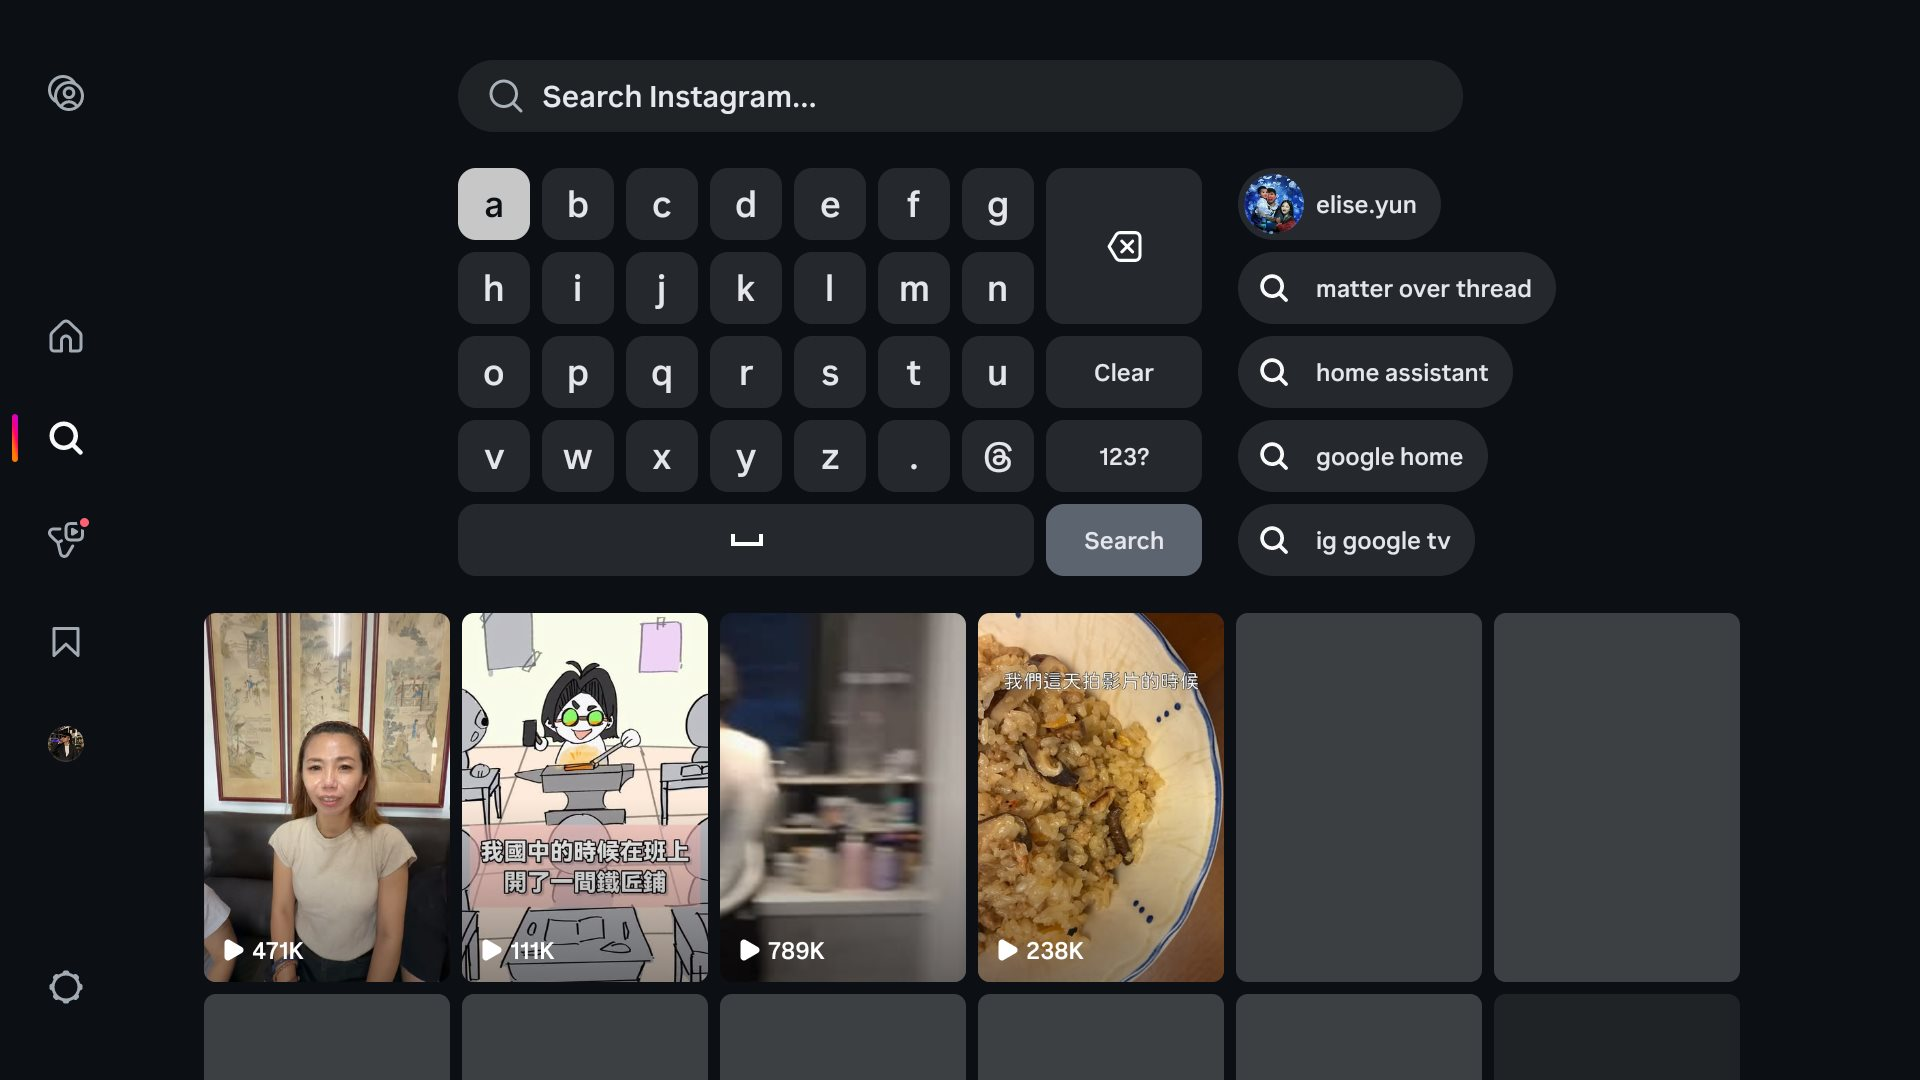
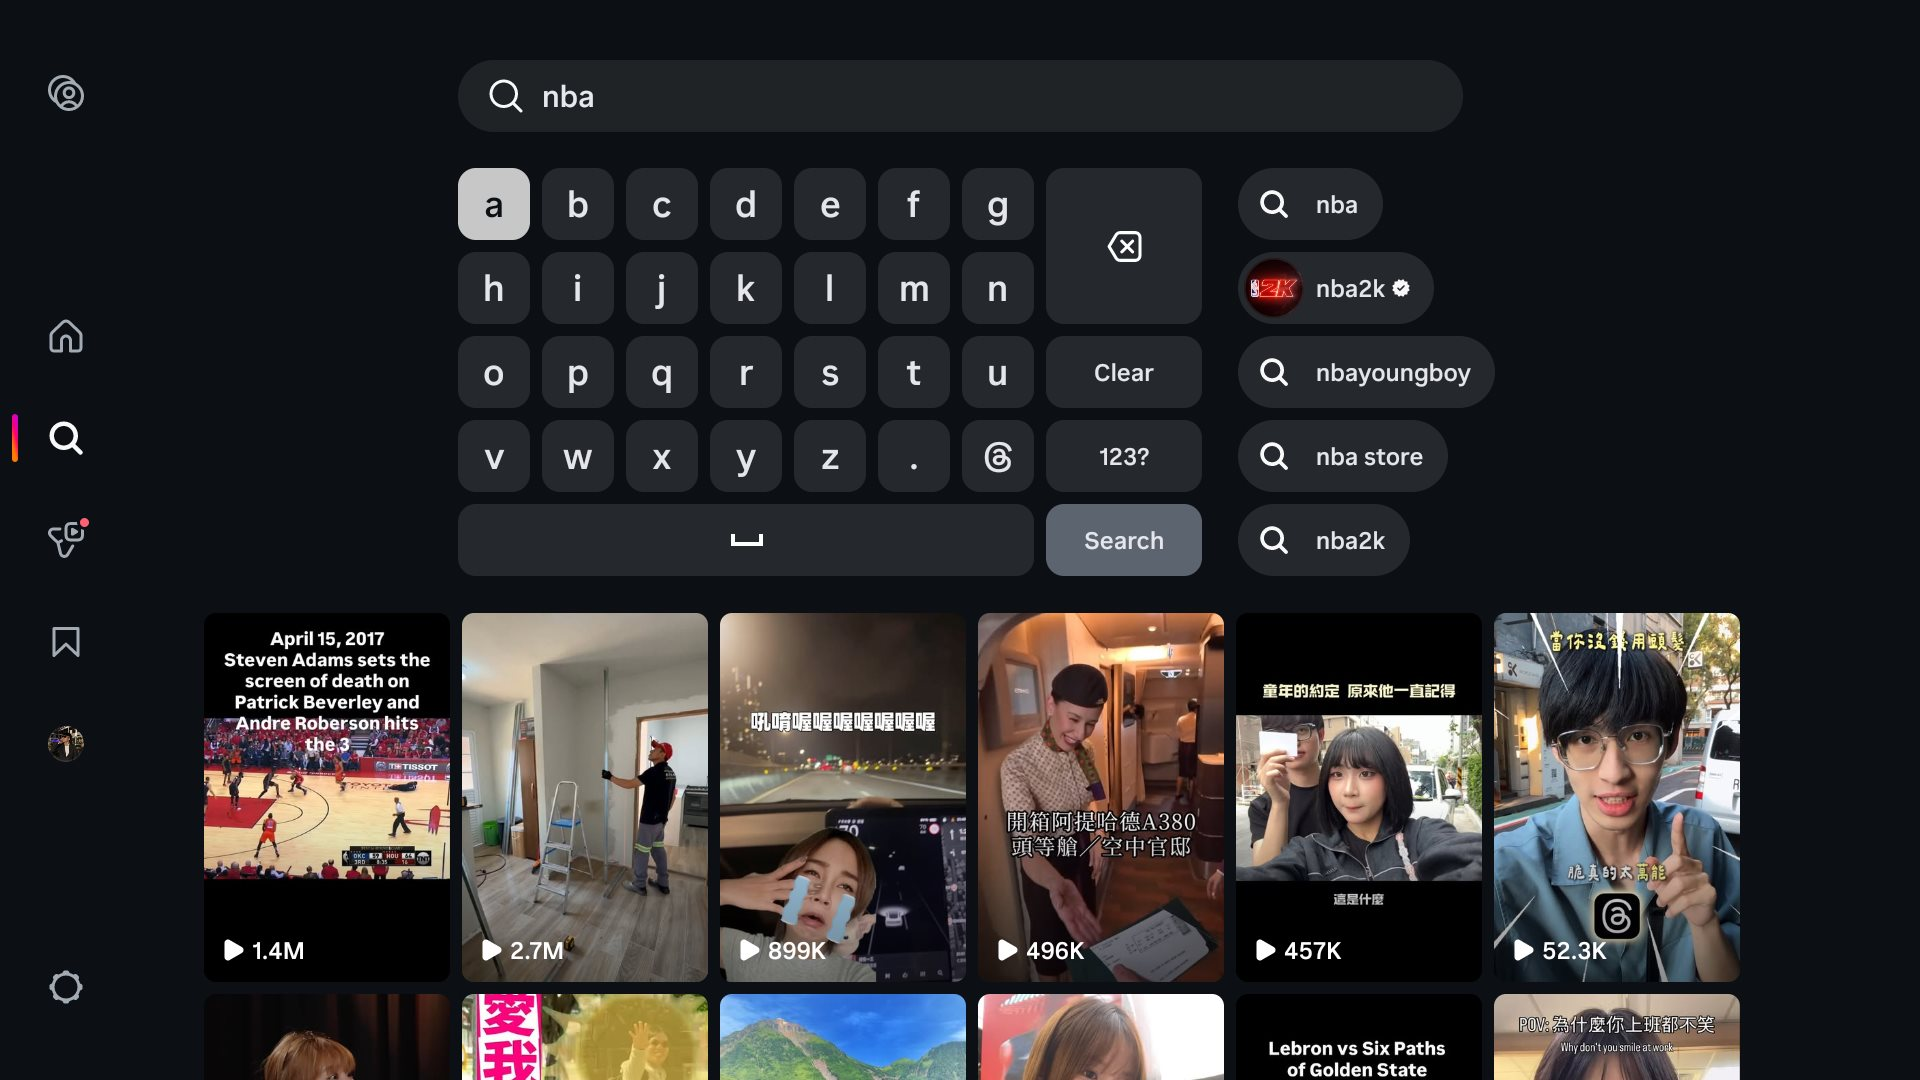
Replace Search screenshot with a privacy-safe version
New c3.jpg shows a typed nba query with live suggestions instead of
personal recent-search history; captions updated to match.

diff --git a/ig-tv-app.html b/ig-tv-app.html
@@ -64,8 +64,8 @@
   <figure><img src="img/c2.jpg" alt="Home 首頁"><figcaption>Home:上方限時動態、下方 For you 影片牆,縮圖直接顯示觀看數。</figcaption></figure>
 
   <h2>Search:電視上打字沒有想像中痛苦</h2>
-  <p>搜尋頁是一個螢幕鍵盤,右邊掛著最近搜尋紀錄,下面鋪推薦影片。鍵盤上除了字母數字,還有一顆 Threads 符號鍵——Meta 的全家桶暗示得很明顯。用方向鍵一顆一顆點字母當然不如手機快,但配合搜尋紀錄和推薦牆,找特定創作者還算堪用。</p>
-  <figure><img src="img/c3.jpg" alt="Search 搜尋頁"><figcaption>Search:螢幕鍵盤 + 最近搜尋 + 推薦影片牆。</figcaption></figure>
+  <p>搜尋頁是一個螢幕鍵盤,下面鋪推薦影片;一開始打字,右側就即時跳出建議——帳號結果會直接帶頭像和藍勾勾。鍵盤上除了字母數字,還有一顆 Threads 符號鍵——Meta 的全家桶暗示得很明顯。用方向鍵一顆一顆點字母當然不如手機快,但配合即時建議和推薦牆,找特定創作者還算堪用。</p>
+  <figure><img src="img/c3.jpg" alt="Search 搜尋頁"><figcaption>Search:螢幕鍵盤,打字時右側即時顯示建議與帳號結果。</figcaption></figure>
 
   <h2>主角登場:Shared reels——私訊影片的專屬收件匣</h2>
   <p>這是整個 App 我最喜歡的分頁,也是手機版沒有的體驗。<strong>朋友透過私訊傳給你的所有 Reels,全部集中在這一頁</strong>:上面一排「New」是還沒看的(縮圖右上角掛著傳送者的頭像、標著幾小時前),下面「All reels」是完整歷史。</p>
@@ -104,8 +104,8 @@
   <figure><img src="img/c2.jpg" alt="Home feed"><figcaption>Home: stories on top, the For-you reels wall below, view counts on the thumbnails.</figcaption></figure>
 
   <h2>Search: typing on a TV, less painful than expected</h2>
-  <p>Search is an on-screen keyboard with your recent searches beside it and a wall of suggested reels underneath. There's even a dedicated Threads-symbol key on the keyboard — Meta bundling at its most subtle. Pecking letters with a D-pad will never beat a phone, but recents plus suggestions make finding a specific creator workable.</p>
-  <figure><img src="img/c3.jpg" alt="Search page"><figcaption>Search: on-screen keyboard, recent searches, suggested reels.</figcaption></figure>
+  <p>Search is an on-screen keyboard with a wall of suggested reels underneath, and as soon as you start typing, live suggestions appear on the right — account results come with avatars and verification badges. There's even a dedicated Threads-symbol key on the keyboard — Meta bundling at its most subtle. Pecking letters with a D-pad will never beat a phone, but live suggestions make finding a specific creator workable.</p>
+  <figure><img src="img/c3.jpg" alt="Search page"><figcaption>Search: on-screen keyboard with live suggestions and account results as you type.</figcaption></figure>
 
   <h2>The star: Shared reels — an inbox for DM'd videos</h2>
   <p>This is my favorite tab in the app, and an experience the phone doesn't offer. <strong>Every reel your friends send you in DMs lands on this one page</strong>: a "New" row of unwatched ones (each thumbnail badged with the sender's avatar and how long ago it arrived), and an "All reels" section with the full history.</p>

diff --git a/medium/ig-tv-app-zh.html b/medium/ig-tv-app-zh.html
@@ -23,8 +23,8 @@
 <figure><img src="https://quenhenglee.github.io/img/c2.jpg" alt="Home 首頁"><figcaption>Home:上方限時動態、下方 For you 影片牆,縮圖直接顯示觀看數。</figcaption></figure>
 
 <h2>Search:電視上打字沒有想像中痛苦</h2>
-<p>搜尋頁是一個螢幕鍵盤,右邊掛著最近搜尋紀錄,下面鋪推薦影片。鍵盤上除了字母數字,還有一顆 Threads 符號鍵——Meta 的全家桶暗示得很明顯。用方向鍵一顆一顆點字母當然不如手機快,但配合搜尋紀錄和推薦牆,找特定創作者還算堪用。</p>
-<figure><img src="https://quenhenglee.github.io/img/c3.jpg" alt="Search 搜尋頁"><figcaption>Search:螢幕鍵盤 + 最近搜尋 + 推薦影片牆。</figcaption></figure>
+<p>搜尋頁是一個螢幕鍵盤,下面鋪推薦影片;一開始打字,右側就即時跳出建議——帳號結果會直接帶頭像和藍勾勾。鍵盤上除了字母數字,還有一顆 Threads 符號鍵——Meta 的全家桶暗示得很明顯。用方向鍵一顆一顆點字母當然不如手機快,但配合即時建議和推薦牆,找特定創作者還算堪用。</p>
+<figure><img src="https://quenhenglee.github.io/img/c3.jpg" alt="Search 搜尋頁"><figcaption>Search:螢幕鍵盤,打字時右側即時顯示建議與帳號結果。</figcaption></figure>
 
 <h2>主角登場:Shared reels——私訊影片的專屬收件匣</h2>
 <p>這是整個 App 我最喜歡的分頁,也是手機版沒有的體驗。<strong>朋友透過私訊傳給你的所有 Reels,全部集中在這一頁</strong>:上面一排「New」是還沒看的(縮圖右上角掛著傳送者的頭像、標著幾小時前),下面「All reels」是完整歷史。</p>
